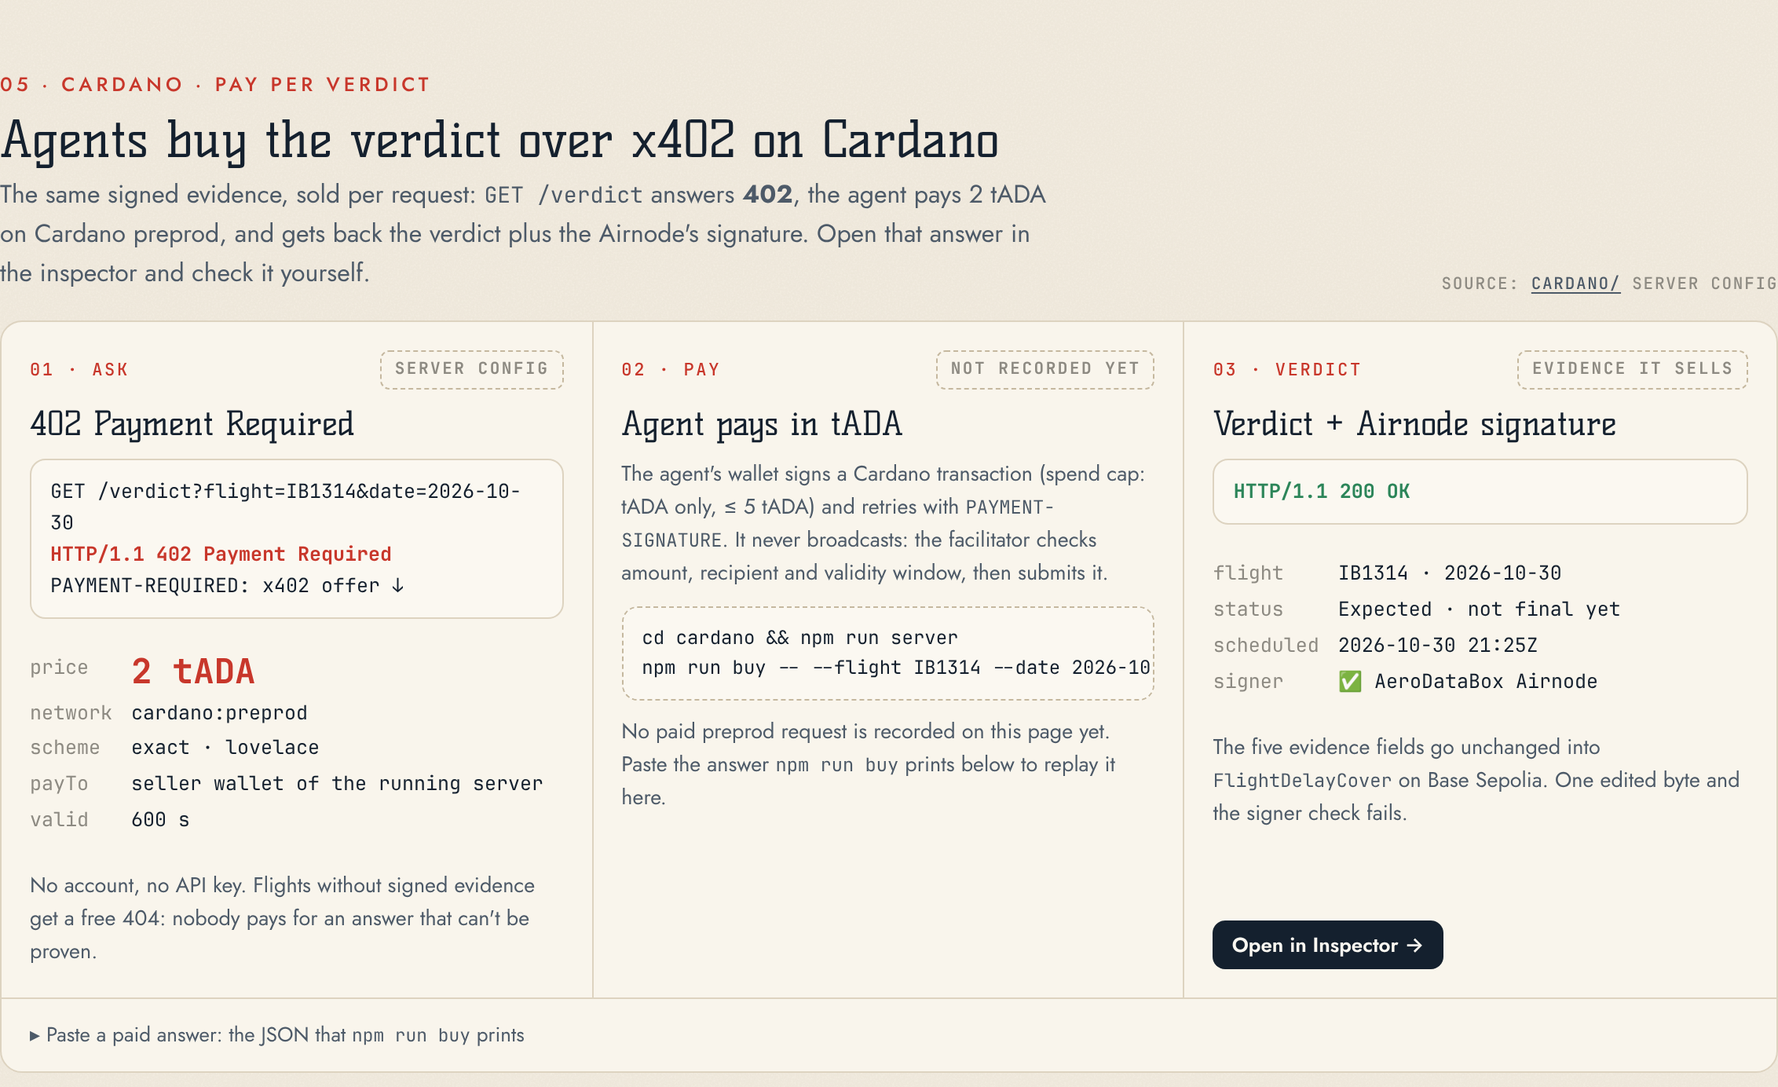
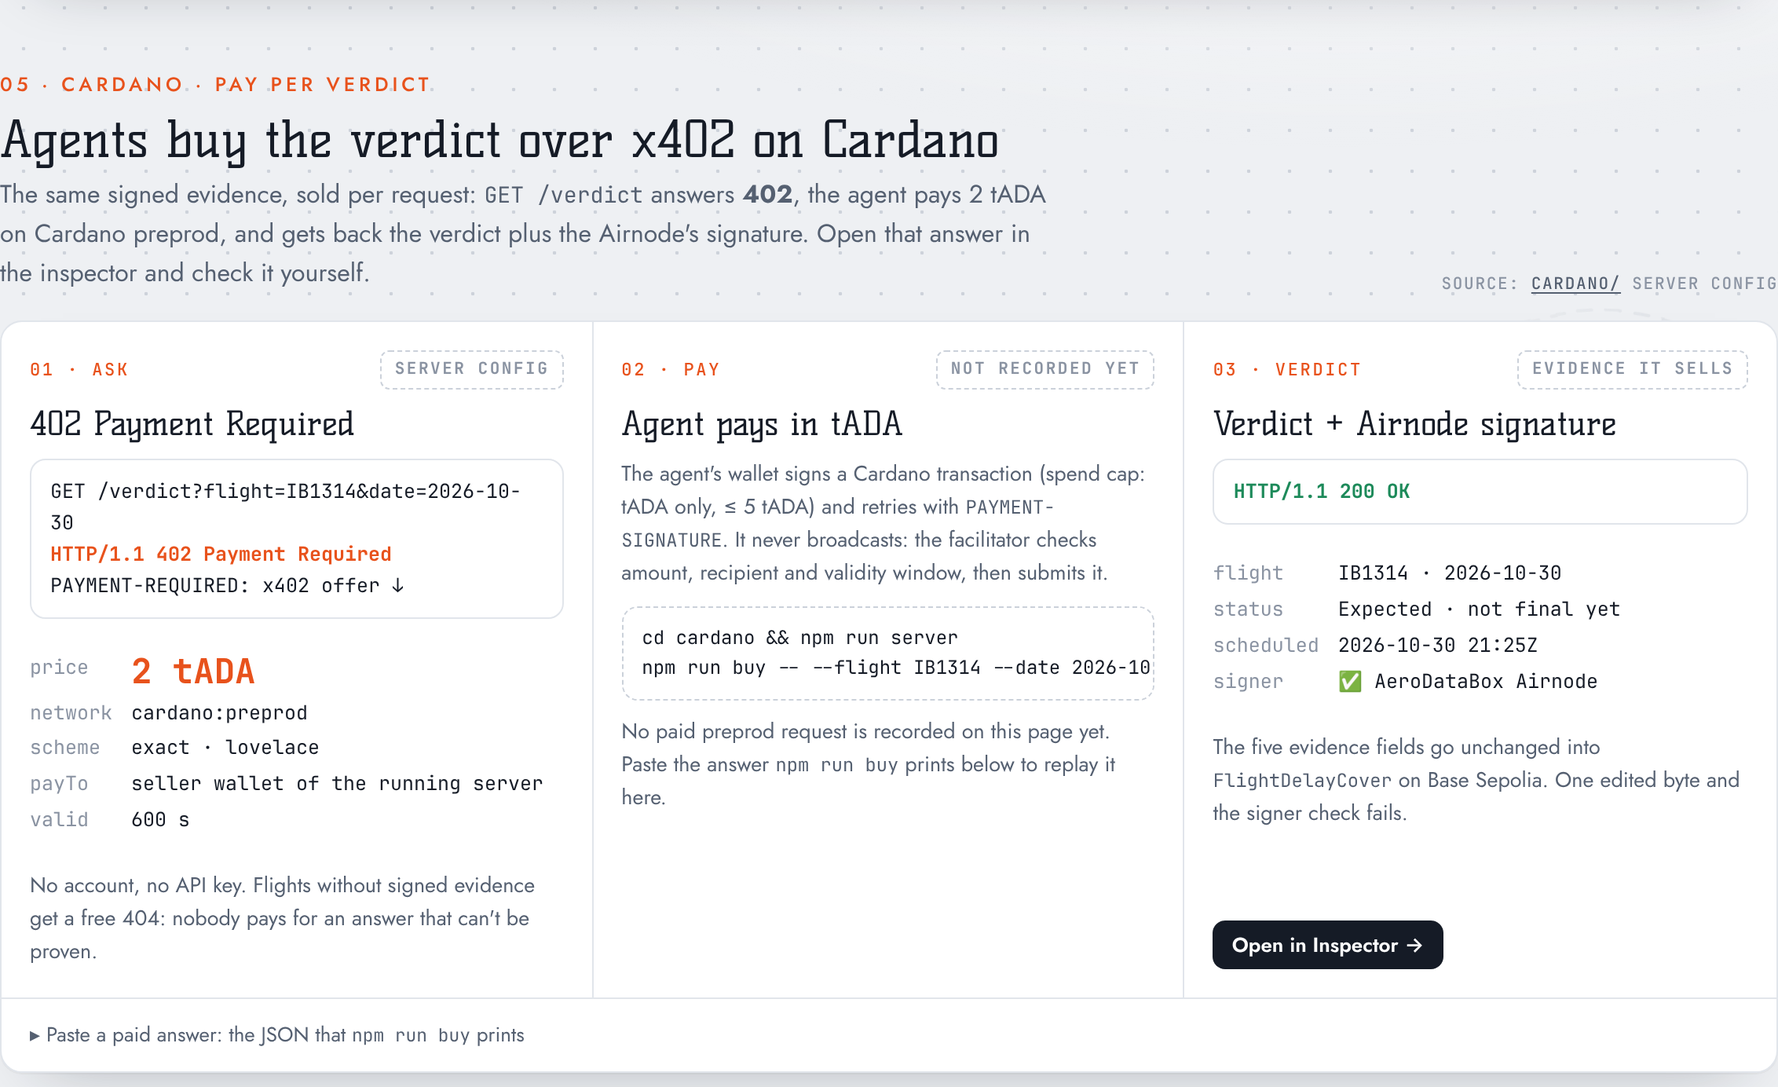
web: sky-chart design with hand-drawn planes; boarding-pass payout card
Replaces the cream/blot look: white-grey sky with a dot grid, graphite ink,
safety-orange accent. Hand-drawn planes (pencil-style SVG with dashed
contrails) drift across the background, paused for prefers-reduced-motion,
fewer and smaller on phones. The payout rule is a tilted boarding pass
(LATE → PAID, perforation, barcode). White cards with soft shadows; navy
primary buttons turn orange on hover. Credit line and womp.solutions link
kept. Favicon, og.png, Devfolio cover and screenshots redone.

Claude-Session: https://claude.ai/code/session_01Te55TUm6B875kFE5E4k3cf

diff --git a/web/index.html b/web/index.html
@@ -5,7 +5,7 @@
 <meta name="viewport" content="width=device-width,initial-scale=1" />
 <title>AeroGuard · flight-delay cover settled by signed API3 data</title>
 <meta name="description" content="Autonomous flight-delay cover. Pays only on AeroDataBox data signed by its API3 AirnodeHub Airnode. Hackathon prototype on Base Sepolia, not insurance." />
-<meta name="theme-color" content="#f3ede1" />
+<meta name="theme-color" content="#eef0f3" />
 <meta property="og:type" content="website" />
 <meta property="og:site_name" content="AeroGuard" />
 <meta property="og:title" content="AeroGuard · your flight is late, you're already paid" />
@@ -30,12 +30,13 @@
   @font-face { font-family: 'Jost'; font-style: normal; font-weight: 300 800; font-display: swap; src: url(fonts/Jost-normal.woff2) format('woff2'); }
   @font-face { font-family: 'Kelly Slab'; font-style: normal; font-weight: 400; font-display: swap; src: url(fonts/KellySlab-normal.woff2) format('woff2'); }
   :root {
-    /* womp.solutions paper: cream stock, navy ink, red pencil, yellow / green / blue paint */
-    --bg: #f3ede1; --bg2: #fbf8f1; --card: #f9f5ec; --card2: #efe8d9; --line: #ddd3c0; --line2: #c5b89f;
-    --text: #14202e; --mute: #4d5a68; --dim: #8d8a82;
-    --accent: #c8372b; --accent-ink: #fbf8f1; --accent-soft: rgba(200, 55, 43, .08);
-    --ok: #2c8559; --ok-soft: rgba(44, 133, 89, .1); --bad: #b3261e; --bad-soft: rgba(179, 38, 30, .07);
-    --yellow: #f2c94c; --green: #58a882; --blue: #4a72c0; --blue-soft: rgba(74, 114, 192, .12);
+    /* sky chart: white-grey sky, graphite ink, safety orange; hand-drawn planes cross the background */
+    --bg: #eef0f3; --bg2: #ffffff; --card: #ffffff; --card2: #f3f5f8; --line: #e1e5eb; --line2: #cbd1da;
+    --text: #151b26; --mute: #556071; --dim: #8a93a2;
+    --accent: #e8521c; --accent-ink: #ffffff; --accent-soft: rgba(232, 82, 28, .09);
+    --ok: #1d8a5a; --ok-soft: rgba(29, 138, 90, .1); --bad: #d0342c; --bad-soft: rgba(208, 52, 44, .07);
+    --amber: #ffb020; --blue: #2f62d6; --blue-soft: rgba(47, 98, 214, .1);
+    --shadow: 0 1px 0 rgba(21, 27, 38, .04), 0 18px 40px -26px rgba(21, 27, 38, .35);
     --sans: Jost, -apple-system, BlinkMacSystemFont, "Segoe UI", Roboto, system-ui, sans-serif;
     --display: "Kelly Slab", Rockwell, "Roboto Slab", Georgia, serif;
     --hand: Caveat, "Segoe Print", "Bradley Hand", cursive;
@@ -46,20 +47,24 @@
   [hidden] { display: none !important; }
   html { scroll-behavior: smooth; scroll-padding-top: 72px; }
   body { margin: 0; font: 16px/1.55 var(--sans); background: var(--bg); color: var(--text); -webkit-font-smoothing: antialiased; position: relative; }
-  body::before { content: ""; position: fixed; inset: 0; pointer-events: none; z-index: 0; background: url(img/paper.svg); opacity: .9; }
-  .blots { position: absolute; top: 0; left: 0; right: 0; height: 640px; overflow: hidden; pointer-events: none; z-index: 0; }
-  .blot { position: absolute; z-index: 0; pointer-events: none; user-select: none; }
-  .blot.y { width: 360px; top: -150px; left: -150px; transform: rotate(-12deg); }
-  .blot.g { width: 320px; top: -120px; right: -130px; transform: rotate(28deg); }
-  .blot.b { width: 340px; bottom: -150px; right: -130px; transform: rotate(-30deg); }
+  body::before { content: ""; position: fixed; inset: 0; pointer-events: none; z-index: 0;
+    background: radial-gradient(1100px 520px at 70% -8%, #fff 0, rgba(255,255,255,0) 70%), radial-gradient(circle, #cdd2da 1px, transparent 1.3px) 0 0 / 26px 26px; }
+  /* the sky: hand-drawn planes with dashed contrails drift across, behind everything */
+  .sky { position: fixed; inset: 0; overflow: hidden; pointer-events: none; z-index: 0; }
+  .sky img { position: absolute; left: 0; top: var(--y); width: var(--w); opacity: calc(var(--o, .6) * .7); will-change: transform;
+    animation: fly var(--d) linear var(--dl) infinite; }
+  .sky img.rev { animation-name: fly-back; }
+  @keyframes fly { from { transform: translate3d(-105%, 0, 0) rotate(var(--r, 0deg)); } to { transform: translate3d(calc(100vw + 5%), var(--dy, 0px), 0) rotate(var(--r, 0deg)); } }
+  @keyframes fly-back { from { transform: translate3d(calc(100vw + 5%), 0, 0) scaleX(-1) rotate(var(--r, 0deg)); } to { transform: translate3d(-105%, var(--dy, 0px), 0) scaleX(-1) rotate(var(--r, 0deg)); } }
+  @media (prefers-reduced-motion: reduce) { .sky img { animation-play-state: paused; } }
   main, footer.site { position: relative; z-index: 1; }
-  ::selection { background: var(--yellow); color: var(--text); }
+  ::selection { background: rgba(232, 82, 28, .22); color: var(--text); }
   a { color: var(--accent); text-decoration: none; } a:hover { text-decoration: underline; }
   code, .mono { font-family: var(--mono); font-size: .88em; }
   .wrap { max-width: 1180px; margin: 0 auto; padding: 0 24px; }
 
   /* nav */
-  nav { position: sticky; top: 0; z-index: 10; background: rgba(243,237,225,.84); backdrop-filter: blur(10px); border-bottom: 1px solid var(--text); }
+  nav { position: sticky; top: 0; z-index: 10; background: rgba(238,240,243,.8); backdrop-filter: blur(12px) saturate(1.2); border-bottom: 1px solid var(--line2); }
   nav .wrap { display: flex; align-items: center; gap: 18px; height: 58px; }
   .brand { display: flex; align-items: center; gap: 9px; font: 400 19px/1 var(--display); color: var(--text); }
   .brand svg { width: 22px; height: 22px; }
@@ -67,22 +72,31 @@
   .navlinks a { color: var(--mute); } .navlinks a:hover { color: var(--text); text-decoration: none; }
   .navright { margin-left: auto; display: flex; gap: 8px; align-items: center; }
   .tag { font: 600 10.5px/1 var(--mono); letter-spacing: .1em; text-transform: uppercase; padding: 6px 8px; border-radius: 6px; border: 1px solid var(--line2); color: var(--mute); white-space: nowrap; }
-  .tag.testnet { color: var(--accent); border-color: rgba(200,55,43,.45); background: var(--accent-soft); }
+  .tag.testnet { color: var(--accent); border-color: rgba(232,82,28,.45); background: var(--accent-soft); }
   .apistat { display: inline-flex; align-items: center; gap: 7px; font-size: 12.5px; color: var(--mute); white-space: nowrap; }
   .dot { width: 8px; height: 8px; border-radius: 50%; background: var(--dim); }
-  .dot.on { background: var(--ok); box-shadow: 0 0 0 4px rgba(44,133,89,.15); } .dot.off { background: var(--bad); }
+  .dot.on { background: var(--ok); box-shadow: 0 0 0 4px rgba(29,138,90,.15); } .dot.off { background: var(--bad); }
 
   /* hero */
   .hero { padding: 64px 0 28px; display: grid; grid-template-columns: 1.25fr .9fr; gap: 40px; align-items: center; }
-  .eyebrow { font: 500 12.5px/1.3 var(--sans); letter-spacing: .24em; text-transform: uppercase; color: var(--text); margin: 0 0 34px; padding-bottom: 12px; border-bottom: 1.5px solid var(--text); display: flex; justify-content: space-between; gap: 16px; }
+  .eyebrow { font: 500 12.5px/1.3 var(--sans); letter-spacing: .24em; text-transform: uppercase; color: var(--mute); margin: 0 0 30px; padding-bottom: 12px; border-bottom: 1px dashed var(--line2); display: flex; justify-content: space-between; gap: 16px; }
   h1 { font: 400 clamp(42px, 6vw, 74px)/1.02 var(--display); letter-spacing: -.01em; margin: 0 0 14px; }
   .hand { font: 600 26px/1.2 var(--hand); color: var(--accent); margin: 0 0 22px; transform: rotate(-1.5deg); transform-origin: left; }
   h1 em { font-style: normal; color: var(--accent); }
-  .lede { color: var(--mute); font-size: 17px; max-width: 600px; margin: 0 0 26px; }
+  .lede { color: var(--mute); text-shadow: 0 0 6px var(--bg), 0 0 2px var(--bg); font-size: 17px; max-width: 600px; margin: 0 0 26px; }
   .lede b { color: var(--text); font-weight: 600; }
   .ctas { display: flex; gap: 10px; flex-wrap: wrap; }
-  aside.pass { background: var(--bg2); border: 1.5px solid var(--text); border-radius: 18px; box-shadow: 6px 6px 0 var(--text); overflow: hidden; position: relative; }
-  aside.pass header { padding: 16px 20px; border-bottom: 1px dashed var(--line2); display: flex; justify-content: space-between; align-items: center; }
+  aside.pass { background: var(--card); border: 1px solid var(--line); border-radius: 20px; box-shadow: 0 30px 60px -30px rgba(21,27,38,.4), 0 1px 0 rgba(21,27,38,.04); overflow: hidden; position: relative; transform: rotate(1.2deg); }
+  aside.pass .bp { padding: 18px 20px 6px; display: grid; grid-template-columns: 1fr auto 1fr; align-items: end; gap: 10px; }
+  aside.pass .bp small { display: block; font: 600 10.5px var(--mono); letter-spacing: .14em; color: var(--dim); text-transform: uppercase; margin-bottom: 4px; }
+  aside.pass .bp b { font: 400 30px/1 var(--display); letter-spacing: .02em; }
+  aside.pass .bp .to { text-align: right; } aside.pass .bp .to b { color: var(--accent); }
+  aside.pass .bp svg { width: 64px; height: 24px; color: var(--dim); margin-bottom: 4px; }
+  .perf { position: relative; margin: 6px 0; border-top: 2px dashed var(--line2); }
+  .perf::before, .perf::after { content: ""; position: absolute; top: -12px; width: 22px; height: 22px; border-radius: 50%; background: var(--bg); box-shadow: inset 0 0 0 1px var(--line); }
+  .perf::before { left: -12px; } .perf::after { right: -12px; }
+  .barcode { height: 28px; margin-top: 12px; opacity: .55; background: repeating-linear-gradient(90deg, var(--text) 0 2px, transparent 2px 4px, var(--text) 4px 5px, transparent 5px 8px, var(--text) 8px 11px, transparent 11px 12px, var(--text) 12px 13px, transparent 13px 17px); }
+  aside.pass header { padding: 14px 20px 0; display: flex; justify-content: space-between; align-items: center; }
   aside.pass header span { font: 600 11px var(--mono); letter-spacing: .12em; color: var(--mute); text-transform: uppercase; }
   .tiers { padding: 8px 20px 4px; }
   .tier { display: grid; grid-template-columns: 1fr auto; align-items: baseline; padding: 12px 0; border-bottom: 1px solid var(--line); }
@@ -90,13 +104,13 @@
   .tier .k { color: var(--mute); font-size: 14px; } .tier .k b { color: var(--text); font-weight: 600; }
   .tier .v { font: 700 26px/1 var(--mono); letter-spacing: -.02em; }
   .tier .v.z { color: var(--dim); } .tier .v.a { color: var(--accent); }
-  aside.pass footer { padding: 14px 20px; background: var(--bg2); border-top: 1px dashed var(--line2); font-size: 12.5px; color: var(--mute); }
+  aside.pass footer { padding: 6px 20px 18px; font-size: 12.5px; color: var(--mute); }
   aside.pass footer code { color: var(--text); word-break: break-all; }
 
   /* buttons + inputs */
   button, .btn { font: 600 14px/1 var(--sans); border-radius: 10px; padding: 11px 15px; cursor: pointer; border: 1px solid transparent; transition: .15s; white-space: nowrap; display: inline-flex; align-items: center; gap: 7px; }
-  .btn-primary { background: var(--text); color: var(--bg2); } .btn-primary:hover { background: #24364d; text-decoration: none; }
-  .btn-ghost { background: transparent; color: var(--text); border-color: var(--line2); } .btn-ghost:hover { border-color: var(--mute); text-decoration: none; }
+  .btn-primary { background: var(--text); color: #fff; } .btn-primary:hover { background: var(--accent); text-decoration: none; }
+  .btn-ghost { background: rgba(255,255,255,.75); color: var(--text); border-color: var(--line2); } .btn-ghost:hover { border-color: var(--mute); text-decoration: none; }
   .btn-sm { padding: 8px 11px; font-size: 13px; border-radius: 8px; }
   button:disabled { opacity: .45; cursor: not-allowed; filter: none; }
   label.f { display: grid; gap: 5px; font-size: 12px; color: var(--mute); font-weight: 500; }
@@ -111,7 +125,7 @@
   .sh h2 { margin: 0; font: 400 32px/1.1 var(--display); letter-spacing: 0; }
   .sh .num { font: 500 12.5px var(--sans); color: var(--accent); letter-spacing: .2em; display: block; margin-bottom: 8px; }
   .sh p { margin: 6px 0 0; color: var(--mute); max-width: 680px; }
-  .card { background: var(--card); border: 1px solid var(--line); border-radius: var(--r); }
+  .card { background: var(--card); border: 1px solid var(--line); border-radius: var(--r); box-shadow: var(--shadow); }
   .pad { padding: 20px; }
 
   /* flow + stats */
@@ -134,14 +148,14 @@
   .srcrow { display: flex; gap: 8px; flex-wrap: wrap; padding: 14px 18px; border-bottom: 1px solid var(--line); }
   .badge { font: 700 10.5px/1 var(--mono); letter-spacing: .12em; padding: 6px 8px; border-radius: 6px; text-transform: uppercase; display: inline-flex; gap: 6px; align-items: center; }
   .badge.none { color: var(--dim); border: 1px dashed var(--line2); }
-  .badge.fixture { color: var(--text); background: repeating-linear-gradient(-45deg, var(--yellow) 0 8px, #e6b938 8px 16px); }
+  .badge.fixture { color: var(--text); background: repeating-linear-gradient(-45deg, var(--amber) 0 8px, #f29c0c 8px 16px); }
   .badge.live { color: var(--ok); background: var(--ok-soft); border: 1px solid rgba(44,133,89,.4); }
   .badge.pasted { color: var(--text); border: 1px solid var(--line2); }
   .badge.mod { color: var(--bad); background: var(--bad-soft); border: 1px solid rgba(179,38,30,.35); }
   .ctx { display: grid; grid-template-columns: 1.4fr 1fr 1fr .8fr; gap: 10px; padding: 16px 18px; border-bottom: 1px solid var(--line); }
   .fields { padding: 16px 18px; display: grid; gap: 12px; }
   .fields .two { display: grid; grid-template-columns: 1fr 1fr; gap: 10px; }
-  .datafield textarea { min-height: 84px; border-color: #d9b648; background: #fdf6dc; font-size: 14px; }
+  .datafield textarea { min-height: 84px; border-color: #f2b28f; background: #fff8f3; font-size: 14px; }
   .hint { font-size: 12px; color: var(--accent); }
   .attacks { padding: 0 18px 16px; }
   .attacks .lbl { font-size: 12px; color: var(--mute); margin-bottom: 8px; display: block; }
@@ -162,7 +176,7 @@
   .verdict .why { color: var(--mute); font-size: 14px; }
   .verdict code.rev { color: var(--bad); background: var(--bad-soft); padding: 2px 6px; border-radius: 5px; word-break: break-all; }
   .note { margin: 14px 18px 0; padding: 12px 14px; border-radius: 10px; font-size: 13px; line-height: 1.5; }
-  .note.fx { background: rgba(242,201,76,.2); border: 1px solid #d9b648; color: var(--text); }
+  .note.fx { background: rgba(255,176,32,.12); border: 1px solid #f3c56b; color: var(--text); }
   .note.fx b { color: var(--accent); }
   .checks { list-style: none; margin: 0; padding: 6px 0; }
   .check { display: grid; grid-template-columns: 30px 1fr; gap: 6px 10px; padding: 12px 18px; border-bottom: 1px solid var(--line); }
@@ -184,7 +198,7 @@
   .decoded b { font: 600 14px var(--mono); overflow-wrap: anywhere; }
   .scale { padding: 18px 18px 20px; border-top: 1px solid var(--line); }
   .bar { position: relative; height: 10px; border-radius: 99px; display: grid; grid-template-columns: 50fr 25fr 25fr; overflow: hidden; gap: 2px; }
-  .bar i { display: block; } .bar i:nth-child(1) { background: var(--line2); } .bar i:nth-child(2) { background: var(--yellow); } .bar i:nth-child(3) { background: var(--accent); }
+  .bar i { display: block; } .bar i:nth-child(1) { background: var(--line2); } .bar i:nth-child(2) { background: var(--amber); } .bar i:nth-child(3) { background: var(--accent); }
   .bar-wrap { position: relative; }
   .marker { position: absolute; top: -6px; width: 3px; height: 22px; background: var(--text); border-radius: 2px; transform: translateX(-50%); transition: left .3s; box-shadow: 0 0 0 3px var(--bg); }
   .ticks { display: grid; grid-template-columns: 50fr 25fr 25fr; font: 11px var(--mono); color: var(--dim); margin-top: 8px; }
@@ -240,12 +254,12 @@
   .log .lv { font-weight: 700; font-size: 11px; letter-spacing: .06em; text-transform: uppercase; }
   .lv.info { color: var(--mute); } .lv.pay { color: var(--accent); } .lv.chain { color: var(--ok); } .lv.warn { color: var(--bad); }
 
-  footer.site { margin-top: 64px; border-top: 1.5px solid var(--text); padding: 26px 0 90px; color: var(--mute); font-size: 13px; overflow: hidden; }
+  footer.site { margin-top: 72px; border-top: 1px solid var(--line2); background: rgba(255,255,255,.7); backdrop-filter: blur(6px); padding: 30px 0 56px; color: var(--mute); font-size: 13px; overflow: hidden; }
   footer.site .wrap.credit { display: flex; justify-content: space-between; align-items: baseline; gap: 16px; flex-wrap: wrap; margin-bottom: 22px; }
   .sig { font: 600 34px/1.1 var(--hand); color: var(--text); transform: rotate(-2deg); transform-origin: left; display: inline-block; }
   .sig b { font-weight: 700; color: var(--accent); }
   .sig:hover { text-decoration: none; color: var(--accent); }
-  .site-link { font: 500 13px var(--sans); letter-spacing: .22em; text-transform: uppercase; color: var(--text); border-bottom: 1.5px solid var(--text); padding-bottom: 3px; }
+  .site-link { font: 500 13px var(--sans); letter-spacing: .22em; text-transform: uppercase; color: var(--text); border-bottom: 1.5px solid var(--accent); padding-bottom: 3px; }
   .site-link:hover { text-decoration: none; color: var(--accent); border-color: var(--accent); }
   footer.site .wrap { display: grid; grid-template-columns: 1.4fr 1fr; gap: 24px; }
   footer.site strong { color: var(--text); }
@@ -304,10 +318,8 @@
     .apistat span { display: none; }
     .tag.api3 { display: none; }
     .hero { padding-top: 36px; }
-    .blots { height: 380px; }
-    .blot.y { width: 200px; top: -46px; left: -118px; }
-    .blot.g { width: 180px; top: -40px; right: -112px; }
-    .blot.b { width: 200px; bottom: -110px; right: -90px; }
+    .sky img { width: calc(var(--w) * .6); } .sky .p4, .sky .p5 { display: none; }
+    aside.pass { transform: none; }
     .mh-long { display: none; }
     .sig { font-size: 28px; }
     /* hero buttons: stacked, same width */
@@ -330,12 +342,18 @@
 </style>
 </head>
 <body>
-<div class="blots" aria-hidden="true"><img class="blot y" src="img/blob-yellow.svg" alt="" /><img class="blot g" src="img/blob-green.svg" alt="" /></div>
+<div class="sky" aria-hidden="true">
+  <img class="p1" src="img/plane-a.svg" alt="" style="--y:9%;--w:400px;--d:72s;--dl:-14s;--r:-4deg;--dy:-70px" />
+  <img class="p2 rev" src="img/plane-b.svg" alt="" style="--y:44%;--w:320px;--d:96s;--dl:-60s;--r:3deg;--dy:40px;--o:.5" />
+  <img class="p3" src="img/plane-b.svg" alt="" style="--y:76%;--w:260px;--d:64s;--dl:-34s;--r:-2deg;--dy:-30px;--o:.45" />
+  <img class="p4" src="img/plane-a.svg" alt="" style="--y:28%;--w:520px;--d:120s;--dl:-88s;--r:2deg;--dy:60px;--o:.35" />
+  <img class="p5 rev" src="img/plane-a.svg" alt="" style="--y:64%;--w:220px;--d:80s;--dl:-8s;--r:-3deg;--o:.5" />
+</div>
 
 <nav>
   <div class="wrap">
     <a class="brand" href="#top">
-      <svg viewBox="0 0 32 32" aria-hidden="true"><rect width="32" height="32" rx="8" fill="#14202e"/><path d="M6 19l20-7-4 10-5-3-3 4v-5z" fill="#f2c94c"/></svg>
+      <svg viewBox="0 0 32 32" aria-hidden="true"><rect width="32" height="32" rx="8" fill="#151b26"/><path d="M6 19l20-7-4 10-5-3-3 4v-5z" fill="#e8521c"/></svg>
       AeroGuard
     </a>
     <div class="navlinks">
@@ -353,7 +371,7 @@
   <div class="wrap">
     <div class="hero">
       <div>
-        <p class="eyebrow"><span>AeroGuard<span class="mh-long"> · parametric flight-delay cover</span></span><span style="white-space:nowrap">10 · 2026</span></p>
+        <p class="eyebrow"><span>AeroGuard<span class="mh-long"> · flight-delay cover</span></span><span style="white-space:nowrap">Base Sepolia · 10 · 2026</span></p>
         <h1>Your flight is late.<br /><em>You're already paid.</em></h1>
         <p class="hand">→ TUM Blockchain &amp; AI · API3 track</p>
         <p class="lede">An autonomous keeper sells the cover and settles it. The contract pays <b>only</b> on AeroDataBox data signed by its API3 Airnode: right flight, right date, fresh, final, never reused. Don't trust us. <b>Verify a signed response yourself, right here in your browser.</b></p>
@@ -363,13 +381,19 @@
         </div>
       </div>
       <aside class="pass" aria-label="Payout rules">
-        <header><span>Payout rule · on-chain</span><span>FlightDelayCover</span></header>
+        <header><span>Boarding pass · payout rule</span><span>FlightDelayCover</span></header>
+        <div class="bp">
+          <div><small>When</small><b>LATE</b></div>
+          <svg viewBox="0 0 64 24" fill="none" stroke="currentColor" stroke-width="1.5" stroke-linecap="round" aria-hidden="true"><path d="M2 12h34" stroke-dasharray="3 4"/><path d="M62 12c-1-1.2-3-1.7-5.5-1.7H48L41 2h-3l3.6 8.3H36L33 6.5h-2.2l1.5 4.3c-1.2.4-1.2 2.6 0 3l-1.5 4.3H33l3-3.8h5.6L38 22.6h3l7-8.3h8.5c2.5 0 4.5-.5 5.5-1.7z" fill="#fff"/></svg>
+          <div class="to"><small>Then</small><b>PAID</b></div>
+        </div>
         <div class="tiers">
           <div class="tier"><div class="k">Arrives <b>&lt; 120 min</b> late</div><div class="v z">0%</div></div>
           <div class="tier"><div class="k">Arrives <b>≥ 120 min</b> late</div><div class="v">50%</div></div>
           <div class="tier"><div class="k"><b>≥ 180 min</b> late or <b>cancelled</b></div><div class="v a">100%</div></div>
         </div>
-        <footer>Only data signed by the AeroDataBox Airnode counts:<br /><code id="airnodeAddr">0x83FE2E8F24E66520B1902C3507De4F471248f2Ec</code></footer>
+        <div class="perf" aria-hidden="true"></div>
+        <footer>Only data signed by the AeroDataBox Airnode counts:<br /><code id="airnodeAddr">0x83FE2E8F24E66520B1902C3507De4F471248f2Ec</code><div class="barcode" aria-hidden="true"></div></footer>
       </aside>
     </div>
 
@@ -563,7 +587,6 @@
 </main>
 
 <footer class="site">
-  <img class="blot b" src="img/blob-blue.svg" alt="" aria-hidden="true" />
   <div class="wrap credit">
     <a class="sig" href="https://womp.solutions" target="_blank" rel="noopener">made by <b>WompSolutions</b> &amp; <b>Eskender</b></a>
     <a class="site-link" href="https://womp.solutions" target="_blank" rel="noopener">womp.solutions ↗</a>
